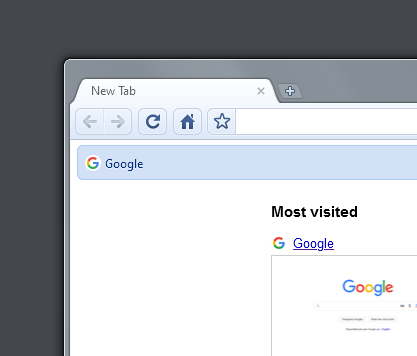
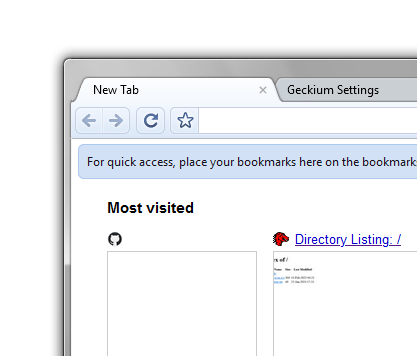
Geckium 5 is complete

diff --git a/Profile Folder/chrome/styles/partials/chrome/chrome-5/_systhemes.scss b/Profile Folder/chrome/styles/partials/chrome/chrome-5/_systhemes.scss
@@ -63,22 +63,24 @@
 
 			@media (prefers-color-scheme: dark) {
 				// Tabs
+				--default-inactive-tab-background: rgba(0, 0, 0, 0.15);
 				--default-selected-tab-background: linear-gradient(
 					to bottom,
-					color-mix(in srgb, white 10%, color-mix(in srgb, #464646 70%, rgb(64, 64, 64))),
-					color-mix(in srgb, white 5%, color-mix(in srgb, #464646 70%, rgb(64, 64, 64)))
+					color-mix(in srgb, white 23%, color-mix(in srgb, white 6%, rgb(32, 32, 32))),
+					color-mix(in srgb, white 20%, rgb(32, 32, 32))
 				);
+				--default-tab-glare: rgba(255, 255, 255, 0.075);
 				--default-tabbrowser-tab-color: white;
 
 				// Navbar
 				--default-nav-bar: linear-gradient(
 					to bottom,
-					color-mix(in srgb, white 5%, color-mix(in srgb, #464646 70%, rgb(64, 64, 64))),
-					color-mix(in srgb, black 8%, color-mix(in srgb, #464646 70%, rgb(64, 64, 64)))
-				);
+					color-mix(in srgb, white 20%, rgb(32, 32, 32)),
+					color-mix(in srgb, black 8%, color-mix(in srgb, white 18%, rgb(32, 32, 32)))
+				); // https://github.com/chromium/chromium/blob/5.0.396.0/chrome/browser/browser_theme_provider_mac.mm#L226
 				&:not([geckium-eleven]) {
 					--default-inner-border-color: color-mix(in srgb, white 16%, transparent);
-					--toolbarbutton-border-color-normal: color-mix(in srgb, color-mix(in srgb, black 30%, rgb(64, 64, 64)) 30%, transparent);
+					--toolbarbutton-border-color-normal: color-mix(in srgb, color-mix(in srgb, black 30%, rgb(32, 32, 32)) 30%, transparent);
 					--toolbarbutton-border-color-hot: rgb(112, 112, 112); //TODO
 					--toolbarbutton-border-color-active: rgb(136, 136, 136); //TODO
 					--toolbarbutton-inner-border-color-normal: color-mix(in srgb, white 16%, transparent);
@@ -86,7 +88,7 @@
 					--default-toolbarbutton-texture: linear-gradient(
 						to top,
 						transparent,
-						rgba(255, 255, 255, 0.09)
+						rgba(255, 255, 255, 0.075)
 					);
 					--default-toolbarbutton-icon-drop-shadow-color: transparent;
 					--default-navigation-buttons-separator: color-mix(in srgb, color-mix(in srgb, black 30%, rgb(64, 64, 64)) 30%, transparent);
@@ -96,17 +98,82 @@
 				}
 				--default-toolbarbutton-icon-fill: white;
 
-				// Personal Toolbar
+				// Personal Toolbar (Bookmarks)
 				--default-personal-toolbar: linear-gradient(
 					to bottom,
-					color-mix(in srgb, black 8%, color-mix(in srgb, #464646 70%, rgb(64, 64, 64))),
-					color-mix(in srgb, black 4%, color-mix(in srgb, white 5%, color-mix(in srgb, #464646 70%, rgb(64, 64, 64))))
+					color-mix(in srgb, black 8%, color-mix(in srgb, white 18%, rgb(32, 32, 32))),
+					color-mix(in srgb, black 4%, color-mix(in srgb, white 20%, rgb(32, 32, 32)))
 				);
-				--personal-toolbar-border-bottom: color-mix(in srgb, black 15%, rgb(64, 64, 64));
-				&:-moz-window-inactive {
-					--personal-toolbar-border-bottom: color-mix(in srgb, black 7%, rgb(64, 64, 64));;
-				}
+				--personal-toolbar-border-bottom: rgb(103, 103, 103);
 				--default-bookmark-item-color: white;
+				&:-moz-window-inactive {
+					--personal-toolbar-border-bottom: rgb(83, 83, 83);
+				}
+
+
+
+
+
+
+
+
+
+
+
+
+
+
+
+
+
+
+
+
+
+				// --default-selected-tab-background: linear-gradient(
+				// 	to bottom,
+				// 	color-mix(in srgb, white 10%, color-mix(in srgb, #464646 70%, rgb(64, 64, 64))),
+				// 	color-mix(in srgb, white 5%, color-mix(in srgb, #464646 70%, rgb(64, 64, 64)))
+				// );
+				// --default-tabbrowser-tab-color: white;
+
+				// // Navbar
+				// --default-nav-bar: linear-gradient(
+				// 	to bottom,
+				// 	color-mix(in srgb, white 5%, color-mix(in srgb, #464646 70%, rgb(64, 64, 64))),
+				// 	color-mix(in srgb, black 8%, color-mix(in srgb, #464646 70%, rgb(64, 64, 64)))
+				// );
+				// &:not([geckium-eleven]) {
+				// 	--default-inner-border-color: color-mix(in srgb, white 16%, transparent);
+				// 	--toolbarbutton-border-color-normal: color-mix(in srgb, color-mix(in srgb, black 30%, rgb(64, 64, 64)) 30%, transparent);
+				// 	--toolbarbutton-border-color-hot: rgb(112, 112, 112); //TODO
+				// 	--toolbarbutton-border-color-active: rgb(136, 136, 136); //TODO
+				// 	--toolbarbutton-inner-border-color-normal: color-mix(in srgb, white 16%, transparent);
+				// 	--toolbarbutton-inner-border-color-hot: rgba(255, 255, 255, 0.2); //TODO
+				// 	--default-toolbarbutton-texture: linear-gradient(
+				// 		to top,
+				// 		transparent,
+				// 		rgba(255, 255, 255, 0.09)
+				// 	);
+				// 	--default-toolbarbutton-icon-drop-shadow-color: transparent;
+				// 	--default-navigation-buttons-separator: color-mix(in srgb, color-mix(in srgb, black 30%, rgb(64, 64, 64)) 30%, transparent);
+				// 	&:-moz-window-inactive {
+				// 		--toolbarbutton-border-color-normal: color-mix(in srgb, color-mix(in srgb, black 23%, rgb(64, 64, 64)) 30%, transparent);
+				// 	}
+				// }
+				// --default-toolbarbutton-icon-fill: white;
+
+				// // Personal Toolbar
+				// --default-personal-toolbar: linear-gradient(
+				// 	to bottom,
+				// 	color-mix(in srgb, black 8%, color-mix(in srgb, #464646 70%, rgb(64, 64, 64))),
+				// 	color-mix(in srgb, black 4%, color-mix(in srgb, white 5%, color-mix(in srgb, #464646 70%, rgb(64, 64, 64))))
+				// );
+				// --personal-toolbar-border-bottom: color-mix(in srgb, black 15%, rgb(64, 64, 64));
+				// &:-moz-window-inactive {
+				// 	--personal-toolbar-border-bottom: color-mix(in srgb, black 7%, rgb(64, 64, 64));;
+				// }
+				// --default-bookmark-item-color: white;
 			}
 		}
 	}

diff --git a/Profile Folder/chrome/styles/partials/chrome/chrome-1/titlebar/buttons/_win10.scss b/Profile Folder/chrome/styles/partials/chrome/chrome-1/titlebar/buttons/_win10.scss
@@ -31,6 +31,25 @@
 		}
 	}
 
+	//Restore Firefox's Win10 menubar styling
+	&[gktitnative="true"] {
+		#main-menubar {
+			& > menu {
+				text-shadow: 0 1px 4px rgba(255, 255, 255, 0.8) !important;
+				&[_moz-menuactive] {
+					background-color: hsla(0,0%,0%,.12) !important;
+
+					@media (prefers-color-scheme: dark) {
+						background-color: hsla(0,0%,100%,.22) !important;
+					}
+				}
+				@media (-moz-platform: linux) { // Temporary
+					border-color: transparent !important;
+				}
+			}
+		}
+	}
+
 	&[gktitnative="false"] {
 		//Always use the white Google logo in non-native titlebars
 		&[gkbranding="chrome"]:not([geckium-chrflag-linux-pre-alpha-titlebar="true"]) {
@@ -80,7 +99,7 @@
 			display: flex !important;
 			height: 30px;
 			width: 45px;
-			color: var(--titlebar-foreground, var(--default-titlebar-foreground)) !important;
+			color: inherit !important;
 			&:-moz-window-inactive {
 				color: var(--titlebar-foreground-inactive, var(--titlebar-foreground-active, var(--default-titlebar-foreground-inactive))) !important;
 			}

diff --git a/Profile Folder/chrome/styles/partials/chrome/chrome-1/_titlebar.scss b/Profile Folder/chrome/styles/partials/chrome/chrome-1/_titlebar.scss
@@ -60,6 +60,9 @@
 	}
 
 	// Standard titlebars
+	&[gktitnative="false"] #titlebar {
+		color: var(--titlebar-foreground, var(--default-titlebar-foreground)) !important;
+	}
 	&:not([menubarvisible]) {
 		#tabbrowser-arrowscrollbox {
 			padding-top: var(--tab-distance-from-top);
@@ -73,6 +76,23 @@
 			}
 		}
 	}
+
+	// Menu bar
+	#toolbar-menubar {
+		text-shadow: unset !important;
+	}
+	#main-menubar {
+		z-index: 1; // Ensure it always overlaps vanillatitlebar
+		appearance: none !important;
+		background-color: unset !important;
+		color: inherit !important;
+		border-radius: unset !important;
+		
+		& > menu {
+			text-shadow: unset !important;
+		}
+	}
+	// NOTE: Non-native menubar styling is in _menu.scss
 
 	--inactive-titlebar-opacity: 1 !important; // Firefox's inactive titlebar opacity
 	--chrtheme-theme-frame-overlay: 0; // Required value for chrThemes because Firefox logic

diff --git a/Profile Folder/chrome/styles/partials/chrome/chrome-1/titlebar/buttons/_win.scss b/Profile Folder/chrome/styles/partials/chrome/chrome-1/titlebar/buttons/_win.scss
@@ -30,6 +30,24 @@
 			}
 		}
 	}
+
+	//Restore Firefox's AERO menubar styling
+	&[gktitnative="true"] {
+		#main-menubar:not(:-moz-lwtheme, :-moz-window-inactive) {
+			background-color: rgba(255,255,255,.5) !important;
+			color: black !important;
+			border-radius: 4px !important;
+		}
+		#main-menubar {
+			& > menu {
+				text-shadow: 0 1px 4px rgba(255, 255, 255, 0.8) !important;
+				@media not (-moz-platform: linux) {
+					-moz-default-appearance: menuitem;
+					appearance: menuitem !important;
+				}
+			}
+		}
+	}
 	
 	&[gktitnative="false"] {
 		//Unless the Linux Pre-Alpha flag is enabled, always use the white Google logo in non-native titlebars

diff --git a/Profile Folder/chrome/styles/partials/chrome/chrome-6/_systhemes.scss b/Profile Folder/chrome/styles/partials/chrome/chrome-6/_systhemes.scss
@@ -2,7 +2,6 @@
 	//Classic (Default/Fallback)
 	// Titlebar
 	// TODO: Make EVERYTHING here start with --default... also just change how the --* vs --default* logic works, to be more Mozilla-like.
-	// TODO: Add compositorless inactive tab backgrounds
 	--default-titlebar-active: linear-gradient(
 		to bottom,
 		rgb(98,147,221),
@@ -74,7 +73,6 @@
 		--default-titlebar-background: rgb(29, 55, 103);
 
 		// Tabs
-        --default-inactive-tab-background: #252525; //TODO: Remove this, for native, as it should be the same as 1.x's
 		--default-selected-tab-background: linear-gradient(
 			to bottom,
 			#414141,

diff --git a/Profile Folder/chrome/styles/partials/chrome/chrome-1/_toolbars.scss b/Profile Folder/chrome/styles/partials/chrome/chrome-1/_toolbars.scss
@@ -40,26 +40,6 @@
 	--bookmark-item-color: var(--default-bookmark-item-color);
 
 	--placed-chevron-width: 15px;
-
-
-	/*
-		Menubar
-		TODO: Style menubar based on titlebar style/native, and move this to _titlebar.scss to enforce a blank template?
-			If not titlebar.scss, move this to menu.scss
-	*/
-	#toolbar-menubar 
-	#main-menubar > menu {
-		appearance: menuitem !important;
-
-		@media (-moz-platform: windows) {
-			text-shadow: 0 1px 4px rgba(255, 255, 255, 0.8);
-		}
-	}
-	#toolbar-menubar {
-		#menubar-items {
-			border-radius: 4px !important;
-		}
-	}
 	
 
 	/*

diff --git a/Profile Folder/chrome/styles/partials/chrome/chrome-1/_menu.scss b/Profile Folder/chrome/styles/partials/chrome/chrome-1/_menu.scss
@@ -1,3 +1,18 @@
+// Custom menubar for non-native titlebars
+:root[gktitnative="false"] {
+	#main-menubar > menu {
+		&[_moz-menuactive] {
+			background-color: transparent !important;
+			color: inherit !important;
+		}
+		&[open] {
+			background-color: AccentColor !important;
+			color: AccentColorText !important;
+		}
+	}
+}
+
+
 menupopup {
 	@media (-moz-platform: linux) {
 		--panel-background: Field !important;

diff --git a/Profile Folder/chrome/styles/partials/chrome/chrome-1/titlebar/buttons/_linuxog.scss b/Profile Folder/chrome/styles/partials/chrome/chrome-1/titlebar/buttons/_linuxog.scss
@@ -49,6 +49,17 @@
 		}
 	}
 
+	//Remake the current Linux menubar as adequately as possible
+	&[gktitnative="true"] {
+		#main-menubar {
+			& > menu {
+				&[open] {
+					border-bottom: 3px solid AccentColor !important;
+				}
+			}
+		}
+	}
+
 	&[gktitnative="false"] {
 		//Show the Google logo before the buttons if enabled
 		&[gkbranding="chrome"][geckium-chrflag-other-platforms-watermark="true"] {

diff --git a/Profile Folder/chrome/pages/newTabHome/partials/chrome-5/_recently-closed.scss b/Profile Folder/chrome/pages/newTabHome/partials/chrome-5/_recently-closed.scss
@@ -67,7 +67,7 @@
 			transparent
 		);
 		--recently-closed-color: -moz-dialogtext;
-		--recently-closed-item-color: blue;
+		--recently-closed-item-color: -moz-nativehyperlinktext;
 	}
 }
 

diff --git a/Profile Folder/chrome/pages/newTabHome/partials/chrome-3/_recently-closed.scss b/Profile Folder/chrome/pages/newTabHome/partials/chrome-3/_recently-closed.scss
@@ -67,6 +67,6 @@
 			transparent
 		);
 		--recently-closed-color: -moz-dialogtext;
-		--recently-closed-item-color: blue;
+		--recently-closed-item-color: -moz-nativehyperlinktext;
 	}
 }

diff --git a/Profile Folder/chrome/styles/partials/chrome/chrome-6/_titlebar.scss b/Profile Folder/chrome/styles/partials/chrome/chrome-6/_titlebar.scss
@@ -1,3 +1,4 @@
+// Remove the Google logo, as it's no longer present
 .titlebar-buttonbox-container::before,
 .titlebar-buttonbox-container::after {
 	content: unset !important;
